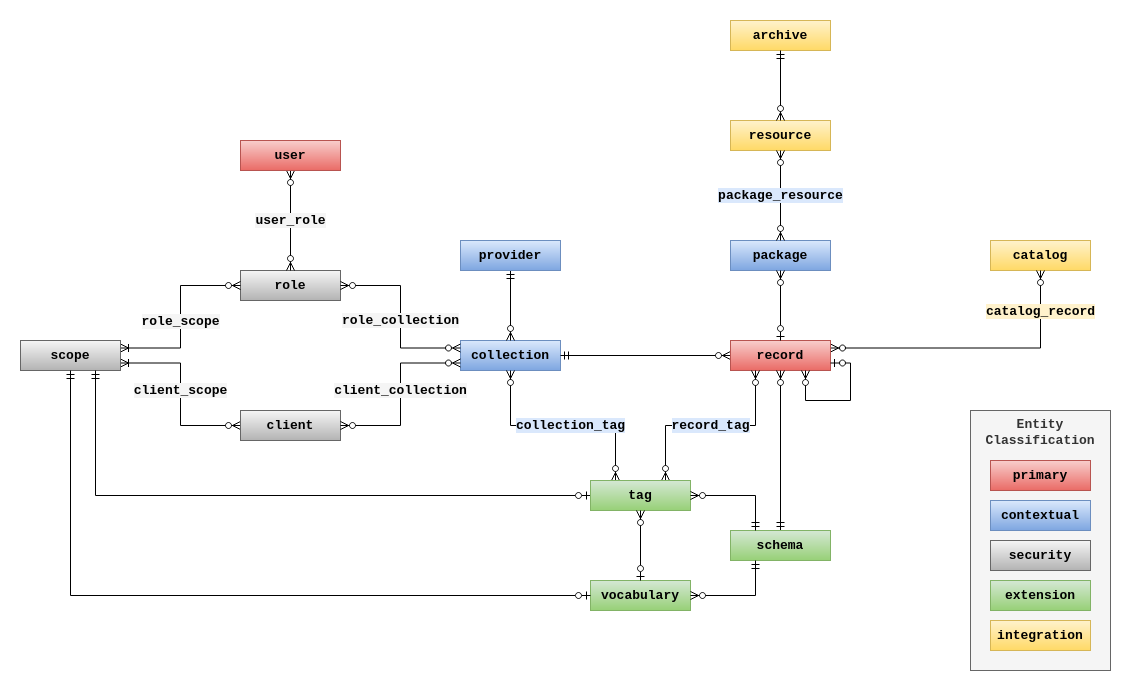
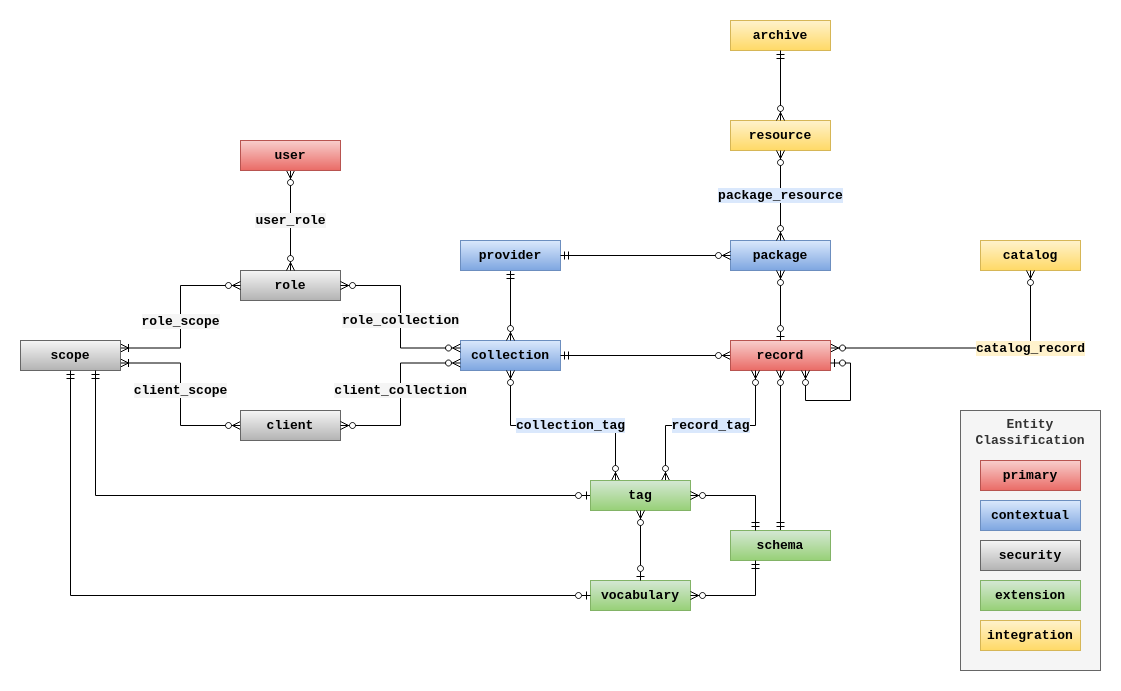
Associate packages with a provider
A package originates from - or is created on behalf of - a data provider, and should only be linked with a record associated (via collection) with that same provider.

diff --git a/migrate/versions/2023_11_23_1eea59d91fea_link_package_to_provider.py b/migrate/versions/2023_11_23_1eea59d91fea_link_package_to_provider.py
@@ -1,0 +1,30 @@
+"""Link package to provider
+
+Revision ID: 1eea59d91fea
+Revises: 220060b4adb3
+Create Date: 2023-11-23 14:48:06.777908
+
+"""
+from alembic import op
+import sqlalchemy as sa
+
+
+# revision identifiers, used by Alembic.
+revision = '1eea59d91fea'
+down_revision = '220060b4adb3'
+branch_labels = None
+depends_on = None
+
+
+def upgrade():
+    # ### commands auto generated by Alembic - adjusted ###
+    op.add_column('package', sa.Column('provider_id', sa.String(), nullable=False))
+    op.create_foreign_key('package_provider_id_fkey', 'package', 'provider', ['provider_id'], ['id'], ondelete='CASCADE')
+    # ### end Alembic commands ###
+
+
+def downgrade():
+    # ### commands auto generated by Alembic - adjusted ###
+    op.drop_constraint('package_provider_id_fkey', 'package', type_='foreignkey')
+    op.drop_column('package', 'provider_id')
+    # ### end Alembic commands ###

diff --git a/odp/db/models/package.py b/odp/db/models/package.py
@@ -21,10 +21,13 @@ class Package(Base):
     metadata_ = Column(JSONB)
     timestamp = Column(TIMESTAMP(timezone=True), nullable=False)
 
+    provider_id = Column(String, ForeignKey('provider.id', ondelete='CASCADE'), nullable=False)
+    provider = relationship('Provider')
+
     record_id = Column(String, ForeignKey('record.id', ondelete='SET NULL'))
     record = relationship('Record')
 
-    _repr_ = 'id', 'record_id',
+    _repr_ = 'id', 'provider_id', 'record_id',
 
 
 class PackageResource(Base):
